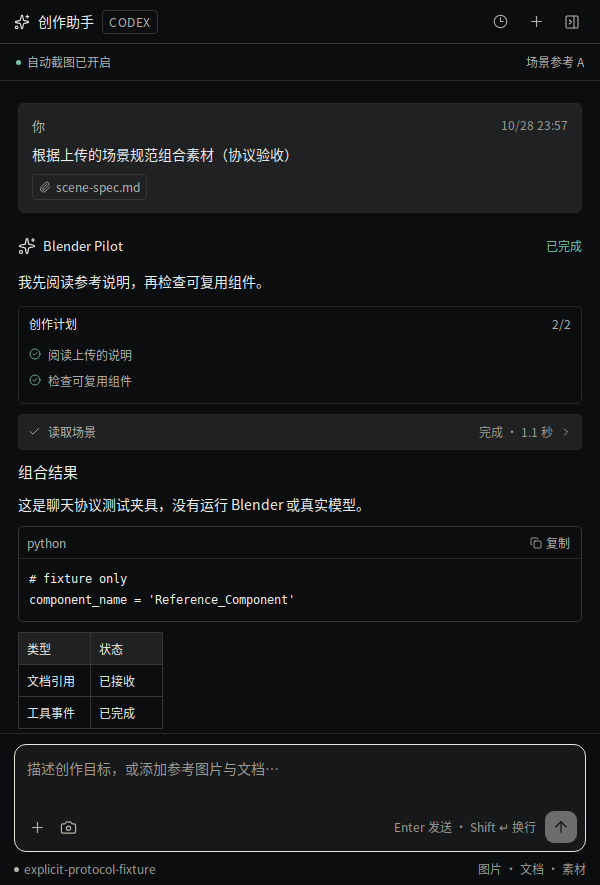
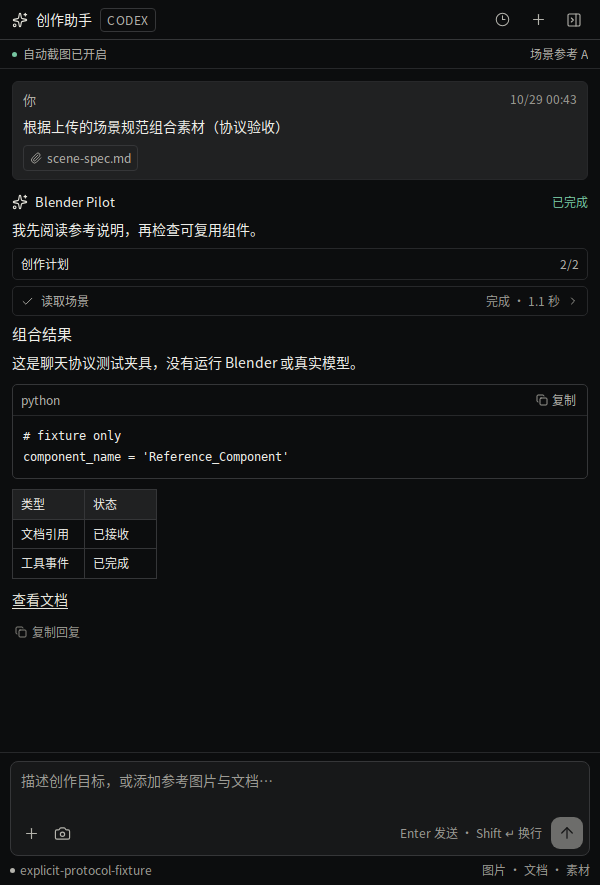
docs: refresh compact sidebar details with per-image provenance

diff --git a/docs/screenshots/latest/README.md b/docs/screenshots/latest/README.md
@@ -1,6 +1,6 @@
 # Current UI screenshots
 
-Captured on **2026-10-29** from application revision [`44e6af9`](https://github.com/shiluyuan/blender-pilot/commit/44e6af9a188ad8b3bbcbf2f6c28df1f6b3de90b8), which includes the sidebar typography and module refactor. This documentation update changes capture scripts and documentation only, not application behavior.
+The **three assistant detail captures** (`chat-dark`, `chat-light`, `chat-narrow`) were refreshed on **2026-10-29** from application revision [`bb00ea4`](https://github.com/shiluyuan/blender-pilot/commit/bb00ea4cf7466da7b3063fe0227b566939e53711), after the project-switching and compact-sidebar improvements. The other captures remain from revision [`44e6af9`](https://github.com/shiluyuan/blender-pilot/commit/44e6af9a188ad8b3bbcbf2f6c28df1f6b3de90b8). Each image now has an explicit source revision in the manifest.
 
 The English and Chinese READMEs lead with **two real-Blender workbench images** from `../current/` (the recorded earlier integration run). They supplement those with **14 current UI-detail images** from this directory. The two disconnected workbench captures in this directory remain diagnostic evidence and are not embedded in either README. The earlier real-Blender images are not claimed to contain the newest sidebar typography.
 
